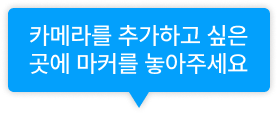
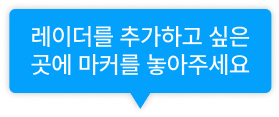
1. 맵 설정 화면: 말풍선 안내 이미지 교체 2. 신호등 아이콘 교체(8개 전부다 새로 업데이트 받아주세요.) 3. 구역, 지점, 카메라, 레이더, 도로 목록 화면 : 검색 입력박스 추가 4. 통계 상세, 통계 비교 화면 스크롤 안생기게 수정 5. (공통) 목록화면 테이블 th요소안에 체크박스가 없어도 동일하게 높이    유지 할 수 있도록 수정

diff --git a/base/css/style.css b/base/css/style.css
@@ -628,64 +628,64 @@ body ::-webkit-scrollbar-track {
   display: inline-block;
 }
 .ico-vehicle-signal.red {
-  width: 9.9rem;
-  height: 3rem;
+  width: 8.3rem;
+  height: 3.2rem;
   background-image: url("/base/images//vehicle-signal/signal_red.png");
   background-repeat: no-repeat;
   background-position: 0 0;
   background-size: contain;
 }
 .ico-vehicle-signal.red-yellow {
-  width: 9.9rem;
-  height: 3rem;
+  width: 8.3rem;
+  height: 3.2rem;
   background-image: url("/base/images//vehicle-signal/signal_red_yellow.png");
   background-repeat: no-repeat;
   background-position: 0 0;
   background-size: contain;
 }
 .ico-vehicle-signal.red-turnleft {
-  width: 9.9rem;
-  height: 3rem;
+  width: 8.3rem;
+  height: 3.2rem;
   background-image: url("/base/images//vehicle-signal/signal_red_turnleft.png");
   background-repeat: no-repeat;
   background-position: 0 0;
   background-size: contain;
 }
 .ico-vehicle-signal.yellow {
-  width: 9.9rem;
-  height: 3rem;
+  width: 8.3rem;
+  height: 3.2rem;
   background-image: url("/base/images//vehicle-signal/signal_yellow.png");
   background-repeat: no-repeat;
   background-position: 0 0;
   background-size: contain;
 }
 .ico-vehicle-signal.turnleft {
-  width: 9.9rem;
-  height: 3rem;
+  width: 8.3rem;
+  height: 3.2rem;
   background-image: url("/base/images//vehicle-signal/signal_turnleft.png");
   background-repeat: no-repeat;
   background-position: 0 0;
   background-size: contain;
 }
 .ico-vehicle-signal.turnleft-green {
-  width: 9.9rem;
-  height: 3rem;
+  width: 8.3rem;
+  height: 3.2rem;
   background-image: url("/base/images//vehicle-signal/signal_turnleft_green.png");
   background-repeat: no-repeat;
   background-position: 0 0;
   background-size: contain;
 }
 .ico-vehicle-signal.green {
-  width: 9.9rem;
-  height: 3rem;
+  width: 8.3rem;
+  height: 3.2rem;
   background-image: url("/base/images//vehicle-signal/signal_green.png");
   background-repeat: no-repeat;
   background-position: 0 0;
   background-size: contain;
 }
 .ico-vehicle-signal.none {
-  width: 9.9rem;
-  height: 3rem;
+  width: 8.3rem;
+  height: 3.2rem;
   background-image: url("/base/images//vehicle-signal/signal_none.png");
   background-repeat: no-repeat;
   background-position: 0 0;
@@ -1199,10 +1199,6 @@ body ::-webkit-scrollbar-track {
   padding-bottom: 1.53rem;
   line-height: 100%;
 }
-.ui.basic.table.is-chkbox-fncbtn-none2 thead th {
-  padding: 1.4rem 0 !important;
-  line-height: 100%;
-}
 .ui.basic.table.is-data-grid thead tr th {
   height: 2.34rem;
   padding: 0 !important;
@@ -1537,7 +1533,7 @@ body ::-webkit-scrollbar-track {
   min-width: 14rem;
   height: 3.4rem;
   padding: 0 2.5rem 0 1rem;
-  border-color: #cbcbcb;
+  border-color: #e0e0e0;
   color: #727272;
   font-weight: 500;
   background-image: url(/base/images/arr_down_gray.png);
@@ -4591,6 +4587,9 @@ body ::-webkit-scrollbar-track {
 }
 .ly-setting .button-function-group {
   margin-bottom: 1.3rem;
+}
+.ly-setting .data-tbl-very .ui.very.basic.table thead th {
+  height: 4.7rem;
 }
 .ly-copyright {
   width: 100%;

diff --git a/base/html/set_point.html b/base/html/set_point.html
@@ -51,6 +51,9 @@
                   </select>
                 </div>
                 <!-- //selectbox-wrap -->
+                <div class="ui input md label-none">
+                  <input type="text" placeholder="지점 ID or 지점명" />
+                </div>
                 <button type="button" class="btn-data-search">검색</button>
               </div>
               <!-- //inner -->

diff --git a/base/html/camera_list.html b/base/html/camera_list.html
@@ -52,6 +52,9 @@
                   </select>
                 </div>
                 <!-- //selectbox-wrap -->
+                <div class="ui input md label-none">
+                  <input type="text" />
+                </div>
                 <button type="button" class="btn-data-search">검색</button>
               </div>
               <!-- //inner -->

diff --git a/base/html/radar_list.html b/base/html/radar_list.html
@@ -52,6 +52,9 @@
                   </select>
                 </div>
                 <!-- //selectbox-wrap -->
+                <div class="ui input md label-none">
+                  <input type="text" />
+                </div>
                 <button type="button" class="btn-data-search">검색</button>
               </div>
               <!-- //inner -->

diff --git a/base/html/road_list.html b/base/html/road_list.html
@@ -52,6 +52,9 @@
                   </select>
                 </div>
                 <!-- //selectbox-wrap -->
+                <div class="ui input md label-none">
+                  <input type="text" />
+                </div>
                 <button type="button" class="btn-data-search">검색</button>
               </div>
               <!-- //inner -->

diff --git a/base/html/set_area.html b/base/html/set_area.html
@@ -41,6 +41,9 @@
                   </select>
                 </div>
                 <!-- //selectbox-wrap -->
+                <div class="ui input md label-none">
+                  <input type="text" />
+                </div>
                 <button type="button" class="btn-data-search">검색</button>
               </div>
               <!-- //inner -->

diff --git a/base/css/is.css b/base/css/is.css
@@ -404,7 +404,7 @@
 }
 .stats-container .divide-4 {
   overflow-y: auto;
-  height: 39.7rem;
+  height: 44rem;
   margin-top: 2.1rem;
 }
 .stats-container .divide-4.title-none {
